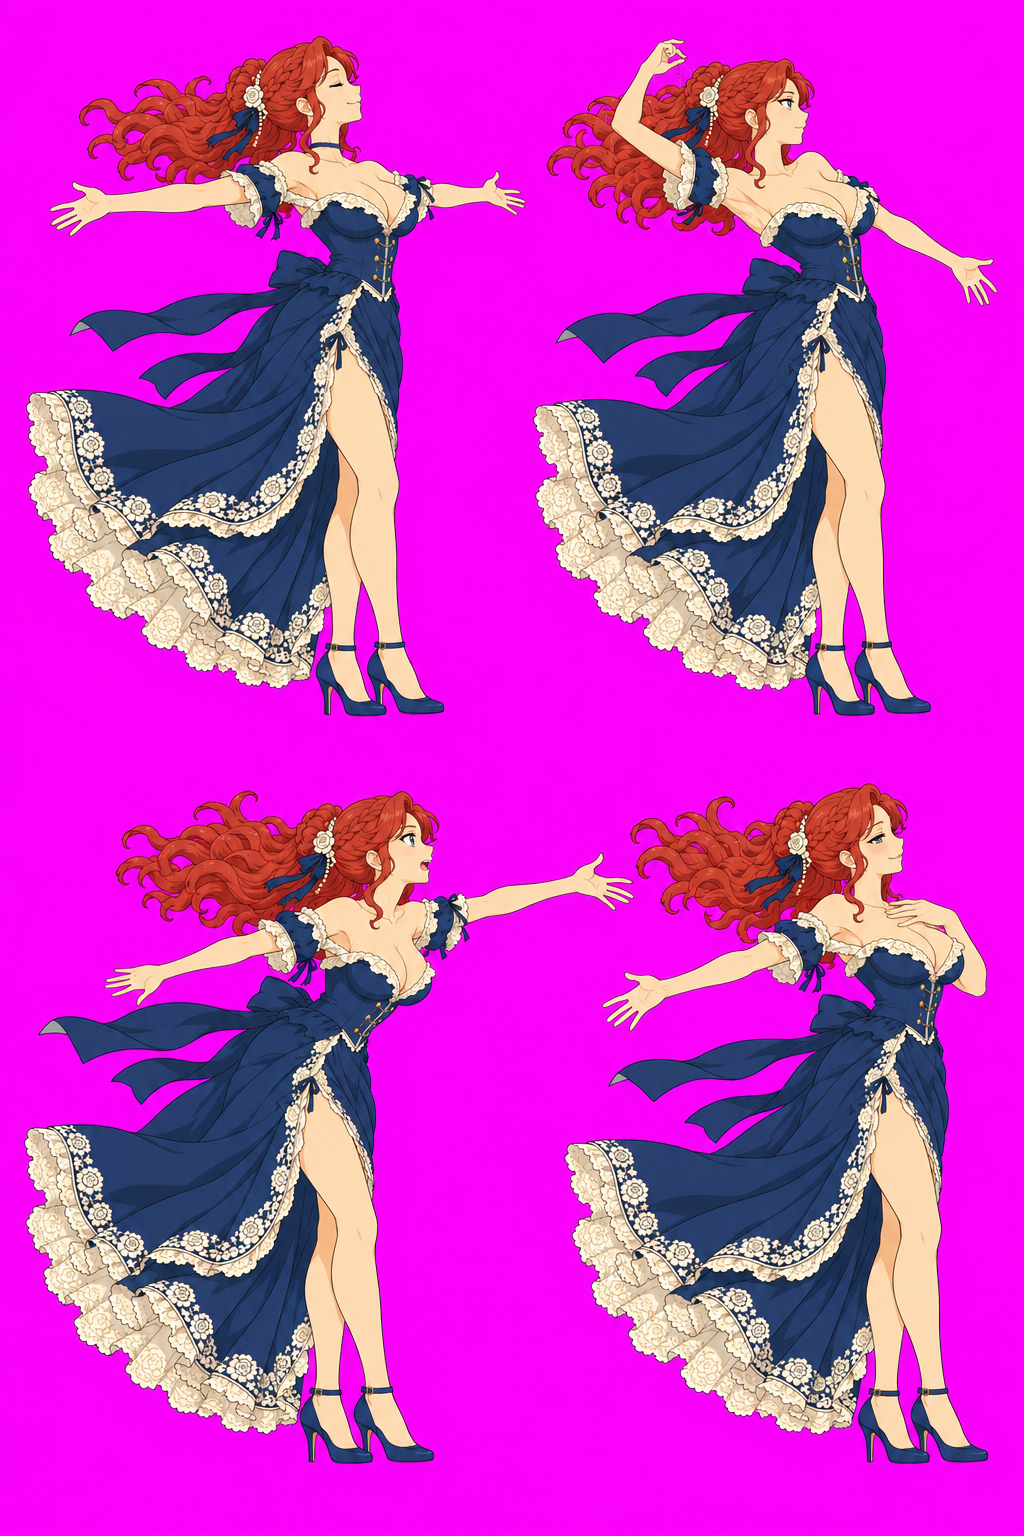
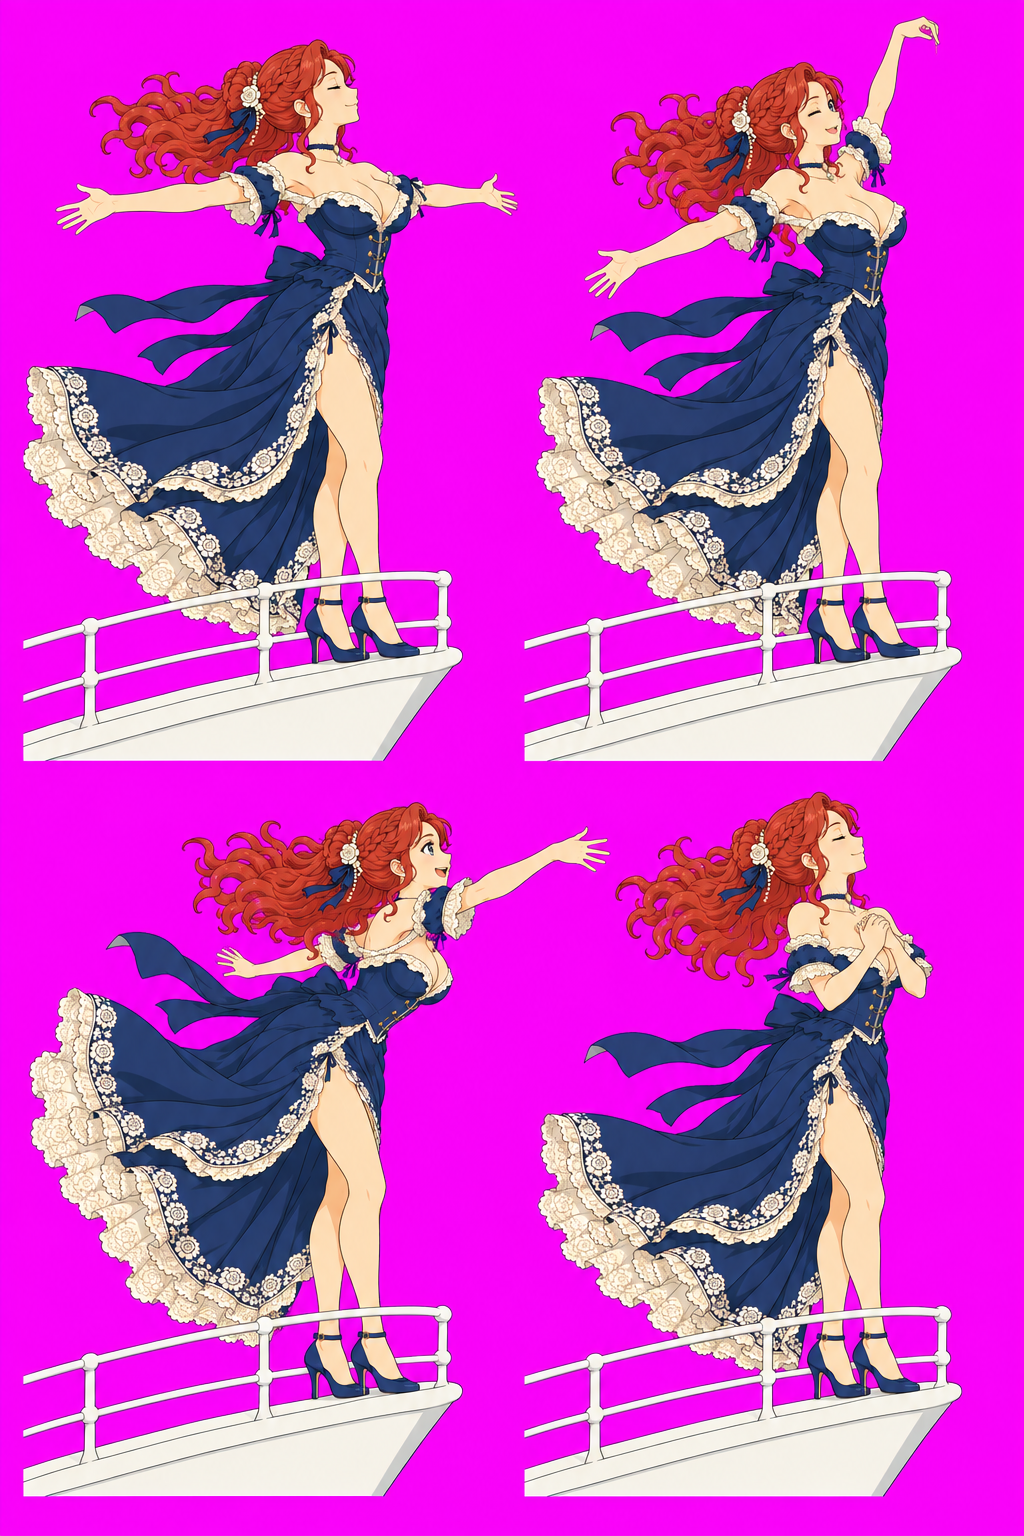
feat: 闺蜜 G15 船头红发少女按三人组规范出帧上线（上方）——站在船头上从左边平着滑出，捂心口 → 张开双臂，拎起 3D 心形蓝宝石项链一抛；漂移 0.24px、手摆 7.2px

diff --git a/chashouji/web/trio_bestie.js b/chashouji/web/trio_bestie.js
@@ -299,6 +299,28 @@ const TRIO_BESTIE = {
              T: 0.4, arc: 0.12, spin: 14, stretch: 0.03, gap: [0.9, 1.3], onHit: 'bounce' },
     },
 
+    /* ---- 上方（左上，男女主头顶以下；样板 G11） ---- */
+    G15: {      // 船头红发少女（泰坦尼克 Rose 式）：站在一截白色船头上从左边平着滑出来，捂着心口 → 张开双臂"飞"；举起心形蓝宝石项链一抛（3D）砸他
+      face: +1,
+      sheet: { src: 'assets/trio/G15_rose.webp', cell: [362, 435], cols: 4, names: ['idle', 'wind', 'throw', 'follow', 'grip', 'step', 'open', 'idle2'] },
+      /* 船头画在每一帧里（动作条每格同一截船头，人站在同一处），锚点 = 两只高跟鞋之间的船头甲板；按两只鞋配准（残差 0.22 px）。
+         grip / step 两帧模型多画了一根竖栏杆（船头变形），不上场。大小：人（不算船头）剪影 × 0.75² ≈ 2.34 万（上方样板 G11 2.06 万，+14%，蓬裙占得多）。
+         站位：同组后排 G5 头顶 671、蓄力举过头的算盘顶到 626，船头最低点 616 让开 */
+      anchor: [212.4, 367.4], at: [190, 565, 0.75], pivot: [212, 367], leanK: 0,
+      depth: 0.5, recipe: 'bloom',
+      /* 船头从左边画外平着滑进来（fly，from 在同一高度偏左、dy 小），减速到位；滑行时捂着心口 → 双臂半张 → 到位张开双臂（露面后换两次帧，最后标 land） */
+      enter: { kind: 'fly', from: [-420, -30], air: 0.75, tilt: 0.04, seq: [['follow', 0.35], ['open', 0.3], ['idle', 9, 'land']], sq: 0.05 },
+      exit: { frame: 'follow' },
+      idle: { frame: 'idle', breathe: [0.014, 0.6, 0] },
+      /* 往后飘的长卷发：根在右边钉住，框上、下、左三边透明 */
+      flex: { idle: [[42, 45, 140, 152, 'r', 6, 0.8]] },   // 框里连着张开的左手：飘发和手一起随风轻晃
+      /* 心形蓝宝石项链照道具表 3D：r 26 cell 79 scale 1.39，转速 π / T */
+      atk: { kind: 'throw', item: 'necklace', r: 26, atlas: { src: 'assets/trio/prop_necklace.webp', n: 36, cols: 6, cell: 79, scale: 1.39 },
+             seq: [['wind', 0.3], ['throw', 0.1, 'fire'], ['follow', 0.35]],
+             hold: { wind: [250, 14], throw: [352, 52] },
+             T: 0.55, arc: 0.2, spin: 5.7, idleSpin: 1.2, stretch: 0.03, gap: [1.0, 1.4], onHit: 'bounce' },
+    },
+
     /* ---- 单张立绘（旧，等按规范重做成帧序列） ---- */
     G12: {      // 紫衣仙子：秋千从左上画外荡进来，飞吻，爱心打到他脸上留下口红印（查岗证据）
       face: +1, src: 'assets/world/trio_fairy.webp', at: [165, 230, 1],   /* 2026-10-01 自由组合：原 y 360 秋千荡下来压后排地面的头，抬 130（组合遮挡矩阵_bestie 建议站位） */

diff --git a/chashouji/v14/trio/bestie/G15_rose/prompts.md b/chashouji/v14/trio/bestie/G15_rose/prompts.md
@@ -1,0 +1,17 @@
+# G15 船头红发少女（泰坦尼克 Rose 式）动作条（2026-09-30，generate_image 1024x1536 n2，品红幕）—— 上方，fly 进场
+
+旧 act_a1 / act_b1（暂停前出的，没画船头）改名 old_act_a1.png / old_act_b1.png。
+
+## raw/act_a1.png（idle / wind / throw / follow），参考图 ref/G15.png（定妆里带船头）；备选 act_a1_alt.png
+"In every cell the SAME adult young woman … stands on the SAME short white ship bow section: white curved hull deck with a white railing, pointed bow tip on the RIGHT,
+section cut off cleanly on the left … exactly the same size, shape and position in every cell, her feet stand on the bow in exactly the same place"。
+idle 张开双臂闭眼"飞" / wind 右手高举作拎项链状、眨眼 / throw 右臂往右甩出、探身越过栏杆 / follow 双手捂心口。
+**船头画进每一帧**：船头是认人点，定妆时就画在人脚下；每格同一截船头，人站在同一处，配准按两只鞋。
+
+## raw/act_b1.png（grip / step / open / idle2），参考图 act_a1.png；备选 act_b1_alt.png
+grip 双手扶栏杆 / step 一脚踩上下横杆 / open 双臂半张 / idle。两张都在 grip、step 两格多画了一根竖栏杆（她扶着的那根），
+船头形状跟别的帧不一样，上场会跳 —— 这两格不上场，进场用 follow（捂心口）→ open → idle。
+
+## 配准 / 大小
+ref idle，head [230,15,350,150]，fixed = 两只高跟鞋 [290,565,425,640]，anchor [355,630]，size h 400。残差 0.22 px。
+人（不算船头）剪影 3.37 万 × (0.75/0.9)² ≈ 2.34 万，对上方样板 G11 2.06 万 +14%（蓬裙大）：at s 0.75。
